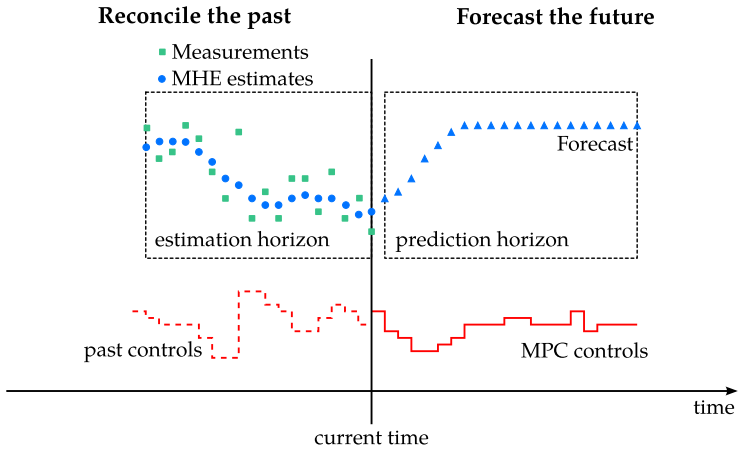
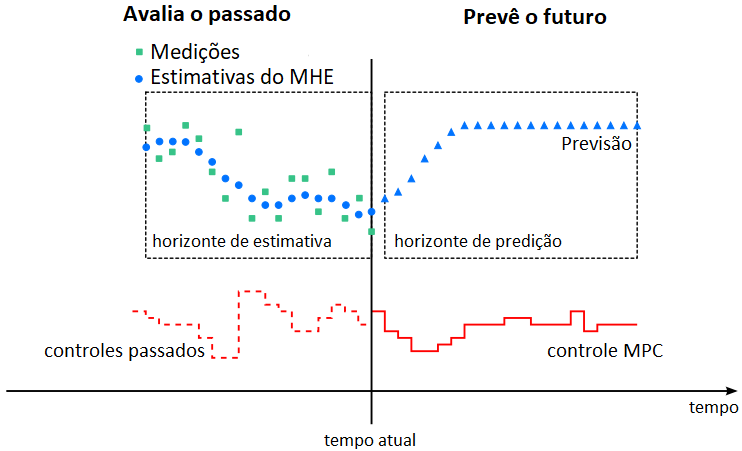
Corrigindo pequenos TODOs

diff --git a/2_content/controlePreditivo.tex b/2_content/controlePreditivo.tex
@@ -6,9 +6,9 @@
 % =====================================================================================================
 \section{Introdução}
 
-% TODO: Alguma intro
+% Alguma intro
 
-% TODO: Apresentar modelo de espaço de estados aumentado como descrito em Wang, pag 5
+% Apresentar modelo de espaço de estados aumentado como descrito em Wang, pag 5
 
 % =====================================================================================================
 % ============================================= Section ===============================================
@@ -16,7 +16,7 @@
 \section{Cronologia}
 \label{sec:cronologia}
 
-% TODO: Cronologia
+% Cronologia
 
 % =====================================================================================================
 % ============================================= Section ===============================================
@@ -24,7 +24,7 @@
 \section{Elementos do controle preditivo}
 \label{sec:elementos_do_controle_preditivo}
 
-% TODO: Apresentacão
+% Apresentacão
 
 % .....................................................................................................
 % ............................................ Subsection .............................................
@@ -32,7 +32,7 @@
 \subsection{Modelo do processo}
 \label{subsec:modelo_do_processo}
 
-% TODO: Modleo 
+% Modleo 
 
 % .....................................................................................................
 % ............................................ Subsection .............................................
@@ -40,7 +40,7 @@
 \subsection{Função Objetivo}
 \label{subsec:funcao_objetivo}
 
-% TODO: fun obj
+% fun obj
 
 % .....................................................................................................
 % ............................................ Subsection .............................................
@@ -48,7 +48,7 @@
 \subsection{Lei de Controle}
 \label{subsec:lei_de_controle}
 
-% TODO: lei de controle
+% lei de controle
 
 % =====================================================================================================
 % ============================================= Section ===============================================
@@ -56,7 +56,7 @@
 \section{As diferentes estratégias do controle preditivo}
 \label{sec:diferentes_estrategias_controle_preditivo}
 
-% TODO: estrategias
+% estrategias
 
 % =====================================================================================================
 % ============================================= Section ===============================================
@@ -64,7 +64,7 @@
 \section{Estabilidade}
 \label{sec:estabilidade}
 
-% TODO: estabilidade
+% estabilidade
 
 % .....................................................................................................
 % ............................................ Subsection .............................................
@@ -72,7 +72,7 @@
 \subsection{Controle Preditivo com Horizonte de Predição Infinito}
 \label{subsec:controle_preditivo_com_horizonte_preditivo_infinito}
 
-% TODO: Controle de predicao infiinito
+% Controle de predicao infiinito
 
 % .....................................................................................................
 % ............................................ Subsection .............................................
@@ -80,7 +80,7 @@
 \subsection{Controle Preditivo Não-Linear}
 \label{subsec:controle_preditivo_nao_linear}
 
-% TODO: Não-linear
+% Não-linear
 
 % =====================================================================================================
 % ============================================= Section ===============================================
@@ -88,7 +88,7 @@
 \section{Análise Complementar dos Sistemas de Controle}
 \label{sec:analise_complementar_dos_sistemas_de_controle}
 
-% TODO: analise complementar
+% analise complementar
 
 % .....................................................................................................
 % ............................................ Subsection .............................................
@@ -96,4 +96,4 @@
 \subsection{Representação no Espaço de Estados}
 \label{subsec:representacao_no_espaco_de_estados}
 
-% TODO: Espaço de Estados
+% Espaço de Estados

diff --git a/2_content/otimizacao.tex b/2_content/otimizacao.tex
@@ -239,9 +239,8 @@ ponto mínimo de $f'$.
 		\label{fig:steepest_decent_slope}
 	\end{center}
 	\centering
-	\makebox[\width]{Fonte: \citeonline{Haugen2018}}
+	\makebox[\width]{Fonte: Autor, adaptado de \citeonline{Haugen2018}}
 \end{figure}
-% TODO: Traduzir imagem
 
 Como indicado na \cref{eq:steepest_decent_xk1_a}, o cálculo de $x_{k+1}$ depende
 de $x_k$, ou seja, o valor do próximo $x$ calculado depende do $x$ anterior. Para
@@ -434,9 +433,8 @@ visual a comparação entre o sistema real e o modelo matemático.
 		\label{fig:parameter_estimation}
 	\end{center}
 	\centering
-	\makebox[\width]{Fonte: \citeonline{Haugen2018}}
+	\makebox[\width]{Fonte: Autor, adaptado de \citeonline{Haugen2018}}
 \end{figure}
-% TODO: Traduzir imagem
 
 Para estimar os parâmetros $P$ de um dado modelo é necessário dividir os dados amostrais
 $N$ em dois grupos: um deles destinado a adaptação do modelo, ou seja, encontrar o vetor $P$
@@ -450,7 +448,7 @@ estimação acontecem em momentos distintos. Já a \textit{estimação recursiva
 A \cref{subsec:moving_horizon_estimation} descreve com mais detalhes a
 \acrlong{mhe} (do inglês, \textit{Moving Horizon Estimation}, ou simplesmente \acrshort{mhe}), que,
 assim como o filtro de Kalman, pode ser utilizado como estimador de parâmetros recursivo.
-% TODO: (Brincalepe) Filtro de Kalman será detalhado?
+% (Brincalepe) Filtro de Kalman será detalhado? -> Não
 
 % .....................................................................................................
 % ............................................ Subsection .............................................
@@ -470,9 +468,8 @@ fixo de tempo para calcular o estado atual do sistema, assim como ilustrado na \
 		\label{fig:mhe}
 	\end{center}
 	\centering
-	\makebox[\width]{Fonte: \citeonline{Haugen2018}}
+	\makebox[\width]{Fonte: Autor, adaptado de \citeonline{Haugen2018}}
 \end{figure}
-% TODO: Traduzir imagem
 
 O modelo de espaço de estado que descreve o sistema pode ser descrito como indicado na
 \cref{eq:mhe_main}.

diff --git a/2_content/mpc.tex b/2_content/mpc.tex
@@ -5,7 +5,7 @@ Segundo \citeonline{Rossiter2003} uma das principais diferenças entre o \acrsho
 técnicas de controle (como o \acrshort{pid}, por exemplo) é que a maioria delas não leva em consideração
 as ações futuras do controle, porém o \acrshort{mpc} sim, e para essas ações futuras sejam consideradas
 é necessário possuir um modelo do sistema que mostre as dependências das saídas e das atuais variáveis
-medidas e as entradas atuais e futuras. % TODO: Conferir tradução deste pedaço. Rossiter pag 2
+medidas e as entradas atuais e futuras.
 Este modelo não precisa ser linear, e nem tampouco ser extremamente fiel em descrever todas as interações
 físico-químicas do sistema. Na verdade, ainda segundo \citeonline{Rossiter2003}, a regra básica do modelo 
 é que ele deve ser o mais simples possível, ou seja, deve ser o modelamento mínimo necessário para que
@@ -75,9 +75,8 @@ dados passados, e o \acrshort{mpc} atuando sob um horizonte de predição, predi
 		\label{fig:mhe_mpc}
 	\end{center}
     \centering
-    \makebox[\width]{Fonte: \citeonline{Vukov2015a}}
+    \makebox[\width]{Fonte: Autor, adaptado de \citeonline{Vukov2015a}}
 \end{figure}
-% TODO: Traduzir imagem
 
 Podemos descrever o \acrshort{mpc} através de um problema de otimização de forma análoga ao que foi feito
 na \cref{subsec:moving_horizon_estimation} para descrever o \acrshort{mhe}, porém, ao invés de minimizarmos

diff --git a/2_content/introducao.tex b/2_content/introducao.tex
@@ -19,7 +19,6 @@
 %Conceito do MPC.									[ok]
 % (Brincalepe) Incluir histórico e maior detalhamento da importância do MPC atualmente      [ok]
 % (Brincalepe) Incluir citações     [ok]
-% TODO Confirmar citações do Ogata
 O controle de processos tem fundamental importância no desenvolvimento industrial,
 sendo amplamente utilizado em praticamente todos os segmentos da indústria,
 contribuindo de maneira significativa para a maior velocidade na estabilização de sinais,
@@ -192,7 +191,7 @@ seu crescimento em outros setores, como na indústria automobilista, onde o \acr
 % =====================================================================================================
 % ============================================= Section ===============================================
 % =====================================================================================================
-% TODO Reinserir seção quando capitulo de Controle Preditivo estiver pronto
+% Reinserir seção quando capitulo de Controle Preditivo estiver pronto (capítulo abandonado)
 % \section{Organização do trabalho}
 % \label{sec:organizacao_do_trabalho}
 

diff --git a/thesis.tex b/thesis.tex
@@ -224,7 +224,7 @@ de automação e controle.}
 \imprimirlistadesiglas
 
 % inserir lista de símbolos
-\imprimirlistadesimbolos 
+% \imprimirlistadesimbolos 
 \setcounter{table}{0}	% Comando inserido para ajustar numeração de tabelas
 
 % inserir o sumario
@@ -246,7 +246,7 @@ de automação e controle.}
 
 \include{./2_content/otimizacao}
 
-% \include{./2_content/controlePreditivo}	% TODO Reinserir quando capitulo estiver pronto
+% \include{./2_content/controlePreditivo}	% Reinserir quando capitulo estiver pronto (capítulo abandonado)
 
 \include{./2_content/mpc}
 

diff --git a/2_content/modelagemExperimental.tex b/2_content/modelagemExperimental.tex
@@ -91,7 +91,6 @@ As \cref{fig:rise_time_sensor1,fig:rise_time_sensor2} mostram a resposta em malh
 Temperatura 1 e 2, respectivamente, a uma entrada degrau no Aquecedor 1. Este ensaio foi realizado com
 um período de amostragem de 0,5s, e com ele foi possível observar um tempo de subida $\tau_1 = 209s$ para
 o Sensor 1 e $\tau_2 = 383s$ para o Sensor 2.
-% TODO: Fazer mais ensaios com step 0 -> 50
 % TODO: Recortar as imagens para remover bordas brancas
 
 Seguindo a regra prática de \citeonline{Aguirre2015} onde $T_s$ deve ser entre 5 e 10 vezes maior que a
